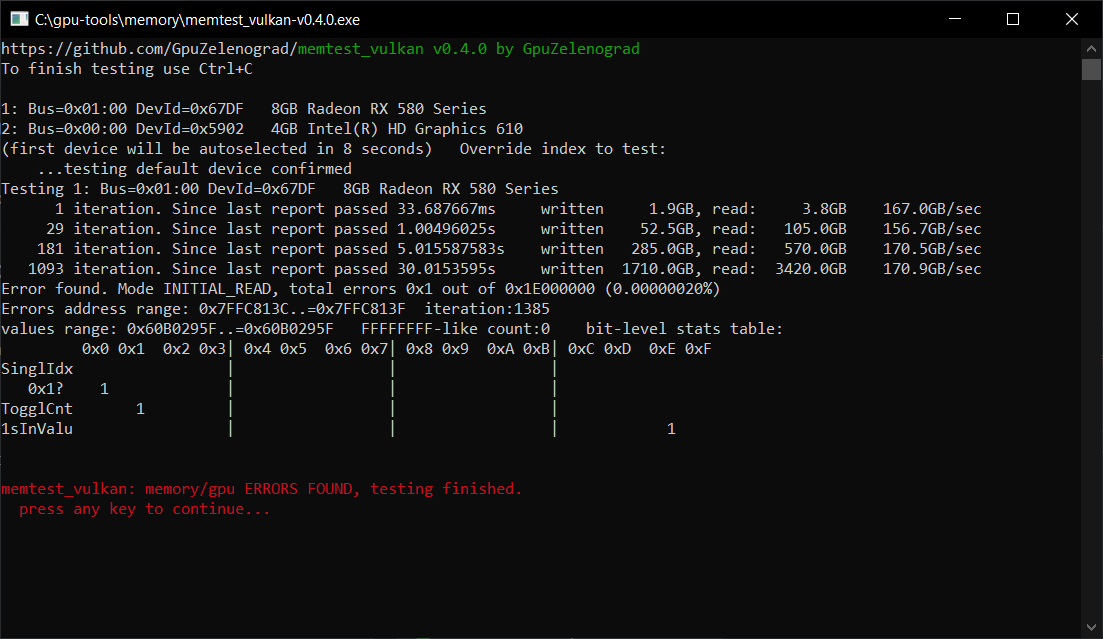
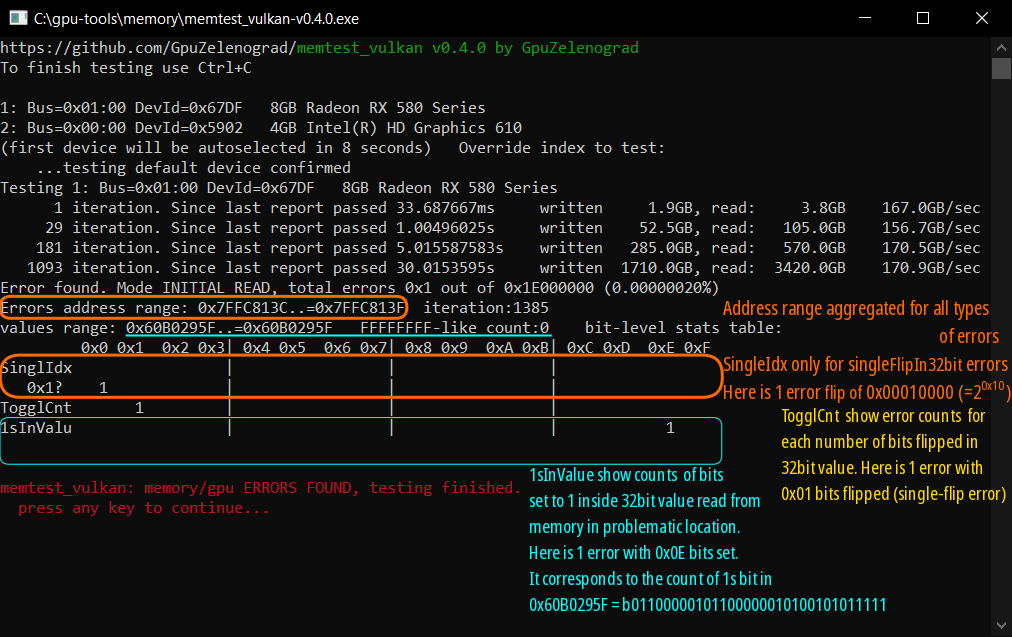
resize image, give errors descriptions

diff --git a/Readme.md b/Readme.md
@@ -3,7 +3,7 @@
 Opensource tool written in vulkan compute to stress test video memory for stability during overclocking or repair.
 Developed as an alternative to OpenCL-based tool [memtestCL](https://github.com/ihaque/memtestCL)
 
-Just start application, wait several minutes and stop testing by Ctrl+C. Detected errors are displayed immediately during test run.
+Just start application, wait several minutes and stop testing by Ctrl+C. Detected errors are displayed immediately during test run. Though the image below gives detailed descriptions for errors table - actually it is not needed for 90% os uses. Just run tool and see if errors are absent or present.
 
 [Prebuilt binaries for windows and linux, including aarch64 NVidia Jetson](https://github.com//GpuZelenograd/memtest_vulkan/releases/)
 
